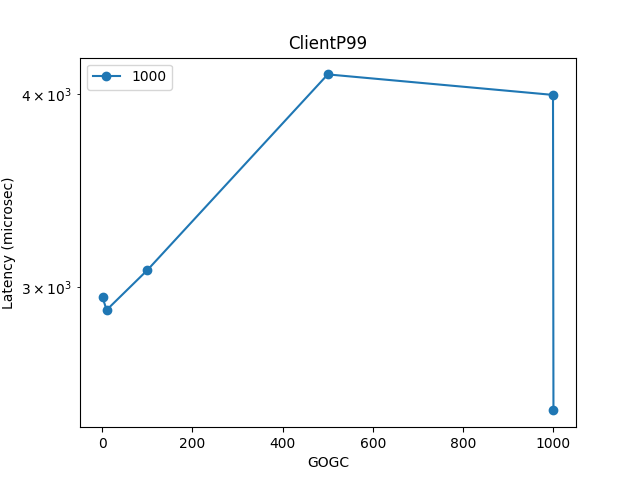
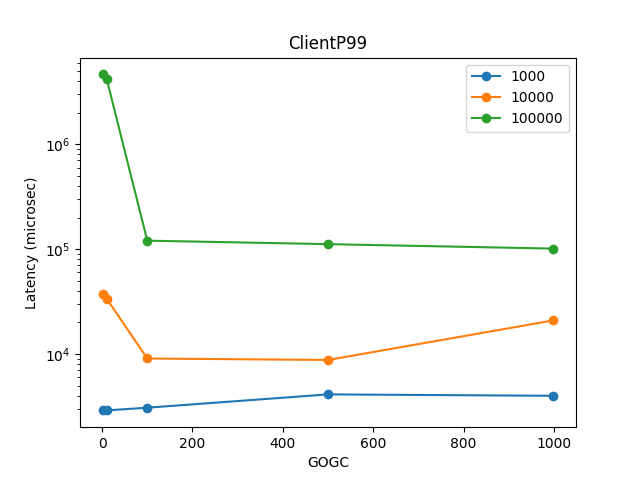
Fix GOGC Sweep experiment

diff --git a/docker-compose/Experiments/GOGCSweep/plotter.py b/docker-compose/Experiments/GOGCSweep/plotter.py
@@ -1,4 +1,5 @@
 import pandas as pd
+import numpy as np
 import matplotlib.pyplot as plt
 import os
 
@@ -7,8 +8,8 @@ directory = './Data'
 
 # Array of sizes and GOGC values
 sizes = [1000, 10000, 100000]
-GOGC = [1, 10, 100, 500, 999, -1]
-GOGC_plot = [1, 10, 100, 500, 999, 1000]
+GOGC = [1, 10, 100, 500, 999]
+GOGC_plot = [1, 10, 100, 500, 999]
 column_list = ["ArraySize", "totalExecutionTime", "ClientAvg", "ClientP50", "ClientP99", "ClientP999", "ClientP9999", "ServerAvg", "ServerP50", "ServerP99", "ServerP999", "ServerP9999"]
 
 # Function to read data from all CSV files for a given array size
@@ -20,9 +21,11 @@ def read_data(size):
         else:
             filename = f"./Data/{size}_{gogc}_latencies.csv"
         if os.path.exists(filename):
-            data = pd.read_csv(filename, header=None).iloc[1:].to_numpy()
+            data = pd.read_csv(filename, header=None).iloc[1:].values
         else:
             print("File not found: ", filename)
+        # print(data)
+        # print('BREAK')
         gogc_array.append(data)
     return gogc_array
 
@@ -33,9 +36,9 @@ def plot_data(data, response_type):
     plt.figure()
     for val in data:
         val = [int(x) for x in val]
-        print(GOGC_plot, val)
+        print(GOGC_plot, val, response_type)
         plt.plot(GOGC_plot, val, marker='o')
-        break
+        
     plt.title(f"{response_type}")
     plt.xlabel('GOGC')
     plt.ylabel('Latency (microsec)')
@@ -50,18 +53,26 @@ def plot_data(data, response_type):
 all_data = []
 for size in sizes:
     data = read_data(size)
+    # print(data)
+    # print('BREAK2')
+    data = np.vstack(data) 
+    # print(data)
+    # print('BREAK3')
+    data = data.T
+    # print(data)
+    # print('BREAK4')
     all_data.append(data)
-# print(all_data)
+print(all_data)
+
 # Pick one column from all data and plot it
 response_type = 1
 for idx, response_type in enumerate(column_list):
-    if idx == 0:
+    if idx < 2:
         continue
     plotting_data = []
     for array in all_data:  # Skip the arraysize column
-        data_series = []
-        
-        for column in array:  # Skip the arraysize column
-            data_series.append(column[0][idx])
-        plotting_data.append(data_series)
+        # print(array[idx])
+        # print('REAK')
+        plotting_data.append(array[idx])
+    print(plotting_data)
     plot_data(plotting_data, response_type)
